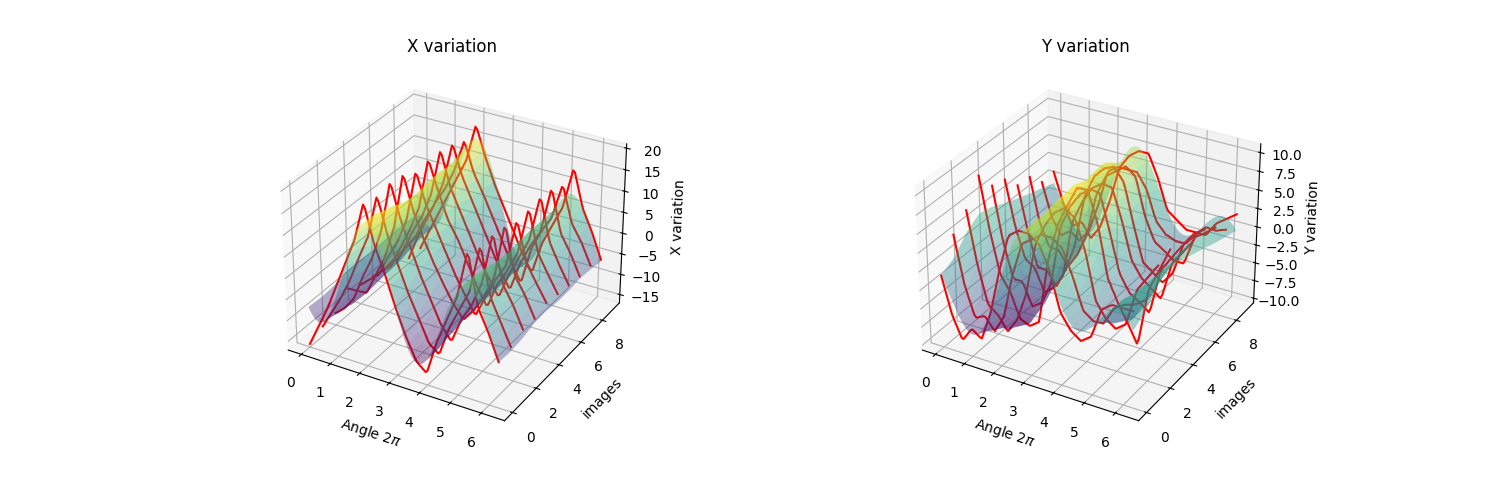
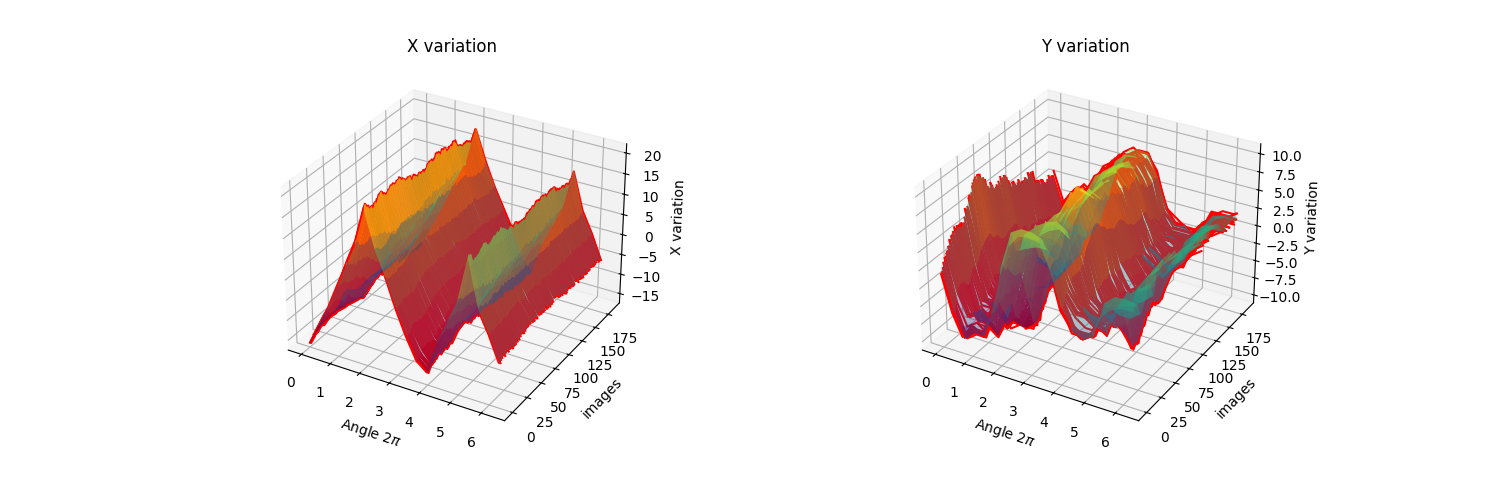
v2

diff --git a/interpLips.py b/interpLips.py
@@ -9,6 +9,7 @@ class AnalyseLips(Fourier):
     def __init__(self, directory) -> None:
         super().__init__(directory)
         self.show_2d()
+        self.show_time()
         
     def show_2d(self):
         fig, ax = plt.subplots(1, 4, figsize=(15, 5))
@@ -18,7 +19,7 @@ class AnalyseLips(Fourier):
 
         for i in range(4):
             order = i+2
-            self.fourier(order_x=order, order_y=order)
+            self.fourier(order_y=order, show=False)
             pts = self.mat_3D[0]
             vx = [v[0] for v in pts]
             vy = [v[1] for v in pts]
@@ -29,12 +30,39 @@ class AnalyseLips(Fourier):
             ax[i].invert_yaxis()
             
         plt.show()
-        fig.savefig('orderFourier.png')
+        fig.suptitle('order_w : lissage du contour des lèvres', fontsize=5)
+        plt.tight_layout(rect=[0, 0, 1, 0.8])  
+
+        fig.savefig('order_w.png')
+        
+    def show_time(self):
+        fig, ax = plt.subplots(4, 1, figsize=(15, 8))
+        amp_init = self.get_values(self.lips)
+        angle_init = range(len(amp_init))
+        for i in range(4):
+            order = i+7
+            self.fourier(order_x=order, show=False)
+            amp_dft = self.get_values(self.mat_3D)
+            angle_dft = range(len(amp_dft))
+            ax[i].plot(angle_init, amp_init)
+            ax[i].plot(angle_dft, amp_dft)
+            title = f'order {order}'
+            ax[i].set_title(title)
+            
+        fig.suptitle('order_h : lissage dans le temps', fontsize=5)
+        plt.tight_layout(rect=[0, 0, 1, 0.95])  
+        plt.show()
+        fig.savefig('order_h.png')
+            
         
     def get_values(self, mat):
         h, w = mat.shape[:2]
+        result = []
         for i in range(h):
-            maxi = np.max(mat[i])
+            maxi, mini = np.max(mat[i]), np.min(mat[i])
+            value = maxi-mini
+            result.append(maxi)
+        return result
         
     
         

diff --git a/fourierImage.py b/fourierImage.py
@@ -10,14 +10,14 @@ class Fourier(Interpolation):
         super().__init__(directory)
         self.fourier()
         
-    def fourier(self, order_x=5, order_y=5):
-        h, w = self.matPoints.shape[:2]
+    def fourier(self, order_x=40, order_y=20, show=True):
+        h, w = self.lips.shape[:2]
         print('order', order_x, order_y)
         mat_x = np.zeros((h, w), float)
         mat_y = np.zeros((h, w), float)
         for i in range(h):
             for j in range(w):
-                p = self.matPoints[i][j]
+                p = self.lips[i][j]
                 mat_x[i][j] = p[0]
                 mat_y[i][j] = p[1]
                 
@@ -30,15 +30,17 @@ class Fourier(Interpolation):
                 x = idft_x[i][j]
                 y = idft_y[i][j]
                 self.mat_3D[i][j] = [x, y]
-        # fig = plt.figure(figsize=(15, 5))
-        # ax0 = fig.add_subplot(121, projection='3d')
-        # ax1 = fig.add_subplot(122, projection='3d')
-        # self.plot_matrice(mat_x, ax0, title='X variation')
-        # self.plot_matrice(mat_y, ax1, title='Y variation')
-        # self.plot_surface(idft_x, ax0)
-        # self.plot_surface(idft_y, ax1)
-        # plt.show()
-        # fig.savefig('fourier.png')
+        
+        if show:
+            fig = plt.figure(figsize=(15, 5))
+            ax0 = fig.add_subplot(121, projection='3d')
+            ax1 = fig.add_subplot(122, projection='3d')
+            self.plot_matrice(mat_x, ax0, title='X variation')
+            self.plot_matrice(mat_y, ax1, title='Y variation')
+            self.plot_surface(idft_x, ax0)
+            self.plot_surface(idft_y, ax1)
+            plt.show()
+            fig.savefig('fourier.png')
         
     def calculCoef2D(self, img, order=4):
         dft_result = cv2.dft(img, flags=cv2.DFT_COMPLEX_OUTPUT)

diff --git a/interpolation.py b/interpolation.py
@@ -87,7 +87,7 @@ class Interpolation(LoadDatas):
 
         # a = np.arange(minA, maxA, 1.)
         a = np.linspace(minA, maxA, 100)
-        z = np.linspace(minZ, maxZ, 10)
+        z = np.linspace(minZ, maxZ, 100)
        
         points = np.stack((A.flatten(), Z.flatten()), axis=1)
 

diff --git a/README.md b/README.md
@@ -79,7 +79,13 @@ Les premiers coeficients i=0 donne les coordonnées du centre d'inertie de la co
 
 Les coeficients a et b pour i=1 donne les amplitudes maximales et c'est ce qui nous intéresse pour l'analyse des lèvres. 
 
-![Lips Points](orderFourier.png)
+Comme il s'agit d'un modèle 2D, on a 2 ordres : l'un pour la modélisation dans le sens de la hauteur (le temps) dit `order_h` et l'autre dans le sens de la largeur `order_w`. 
+
+
+
+![Lips Points](order_w.png)
+
+![Lips Points](order_h.png)
 
 
 En effet, lorsqu'une personne parle pour émettre un son la bouche s'ouvre et l'amplitude en y augmente. 
@@ -89,10 +95,6 @@ A l'inverse, lorsque la personne se tait, la bouche se ferme créant une amplitu
 Evidement, les amplitudes en x sont importantes aussi car elle représentent la largeur de l'ouverture de la bouche. 
 
 L'intérêt de la modélisation par Fourier est de pouvoir analyser les variations de ces amplitudes en évaluant les phases (dans le temps) où la bouche émet un son (forte amplitudes) et les phases où la bouche se tait (faibles amplitudes). 
-
-Pour visualiser cela il suffit d'analyser les amplitudes maximales à chaque image dans le temps. 
-
-
 
 
 ## **Data Cleaning Sound**
